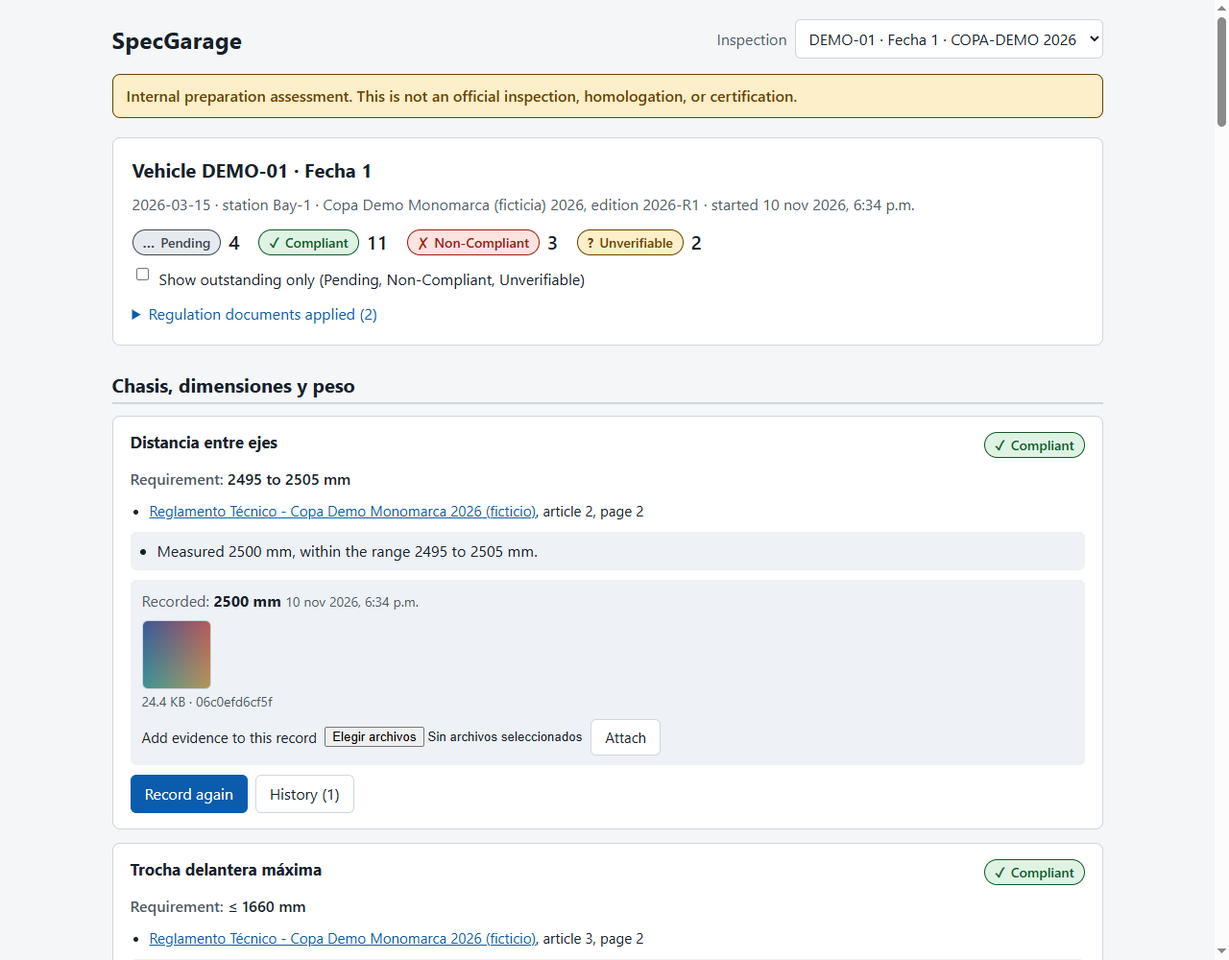
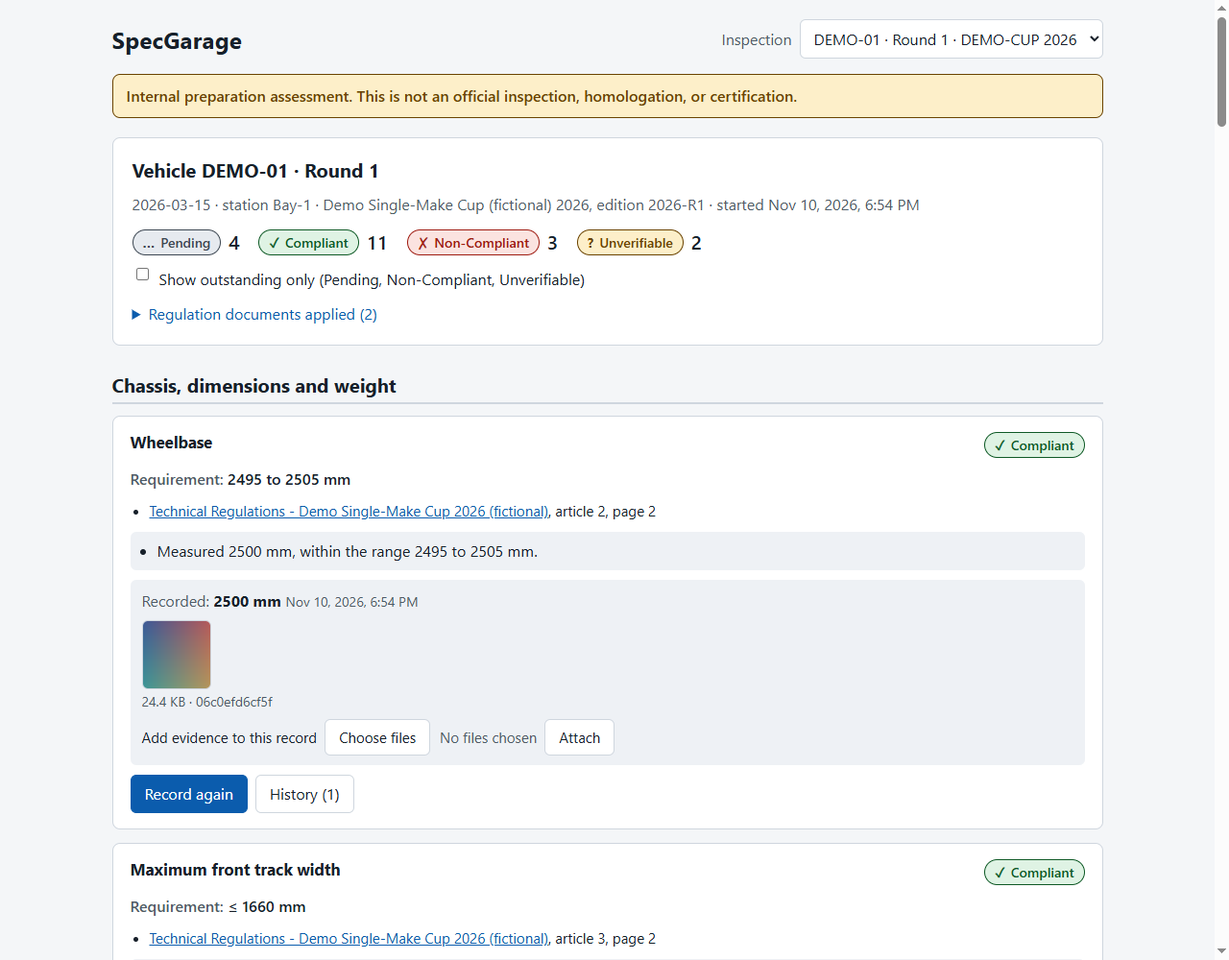
docs: make the documentation English-only and retake the screenshots
Removes the Spanish glossary column and terms, the Spanish-interface items
from the roadmap (locale-aware number entry stays planned), and the notes
about Spanish demo text. Screenshots are retaken from the English demo.

diff --git a/ROADMAP.md b/ROADMAP.md
@@ -4,7 +4,7 @@ Estimates are rough effort in hours. Status values: **Planned**, **In progress**
 
 ## Audience and priorities
 
-SpecGarage is aimed mainly at Argentine single-make (_monomarca_) categories. That drives three choices: Spanish becomes a first-class language soon after the MVP (Phase 8), numbers follow the Argentine convention of a decimal comma and dot thousands separator, and the data model follows how those regulations are organized (technical regulation, sporting regulation, official annexes, per-event particular regulation, lettered sub-articles).
+SpecGarage is aimed mainly at Argentine single-make categories, and the whole application, its documentation, and its demo data are in English. The audience drives two choices: numbers follow the Argentine convention of a decimal comma and dot thousands separator, which is handled soon after the MVP (Phase 8), and the data model follows how those regulations are organized (technical regulation, sporting regulation, official annexes, per-event particular regulation, lettered sub-articles).
 
 ## MVP — v0.1.0 (35 h)
 
@@ -27,11 +27,11 @@ MVP limits, stated up front: English interface only; numbers need a dot as the d
 
 ### v0.2 — complete first functional release (52 h)
 
-| Phase                              | Hours | Depends on | Scope                                                                                                                                                                                                                                           | Acceptance criteria                                                                                                                        |
-| ---------------------------------- | ----: | ---------- | ----------------------------------------------------------------------------------------------------------------------------------------------------------------------------------------------------------------------------------------------- | ------------------------------------------------------------------------------------------------------------------------------------------ |
-| 6. Checklist completeness          |    18 | MVP        | Authorized component lists with declared components; distinct obligation, prohibition, and procedural checks; applicability conditions over event and vehicle attributes; `verify` command; incompatible-rule report at import; `rulepack lint` | Closed-list and prohibition scenarios pass; unmet conditions give Not Applicable; `verify` detects a modified file                         |
-| 7. Inspections and summary screens |    14 | 6          | Start inspections and register vehicles in the UI; per-system summary with the outstanding list; search; notes and outstanding actions                                                                                                          | The whole first-release workflow runs without the CLI after import                                                                         |
-| 8. Spanish/English and printing    |    20 | 7          | Interface in Spanish and English; rulepack text per language with one marked authoritative; Argentine number entry that refuses ambiguous input such as `1.658` instead of guessing; printable blank checklists for working at the car          | Switching language changes no result; ambiguous numbers are refused with an explanation; blank checklists print on A4 without cut-off rows |
+| Phase                              | Hours | Depends on | Scope                                                                                                                                                                                                                                           | Acceptance criteria                                                                                                                                  |
+| ---------------------------------- | ----: | ---------- | ----------------------------------------------------------------------------------------------------------------------------------------------------------------------------------------------------------------------------------------------- | ---------------------------------------------------------------------------------------------------------------------------------------------------- |
+| 6. Checklist completeness          |    18 | MVP        | Authorized component lists with declared components; distinct obligation, prohibition, and procedural checks; applicability conditions over event and vehicle attributes; `verify` command; incompatible-rule report at import; `rulepack lint` | Closed-list and prohibition scenarios pass; unmet conditions give Not Applicable; `verify` detects a modified file                                   |
+| 7. Inspections and summary screens |    14 | 6          | Start inspections and register vehicles in the UI; per-system summary with the outstanding list; search; notes and outstanding actions                                                                                                          | The whole first-release workflow runs without the CLI after import                                                                                   |
+| 8. Number entry and printing       |    20 | 7          | Locale-aware number entry that accepts a decimal comma and refuses ambiguous input such as `1.658` instead of guessing; printable blank checklists for working at the car                                                                       | Both number conventions give identical results; ambiguous numbers are refused with an explanation; blank checklists print on A4 without cut-off rows |
 
 ### v0.4 — authoring and logic (60 h)
 
@@ -42,11 +42,11 @@ MVP limits, stated up front: English interface only; numbers need a dot as the d
 
 ### v0.6 — documents, change, history (68 h)
 
-| Phase                            | Hours | Depends on | Scope                                                                                                                                                                                                                    | Acceptance criteria                                                                                                                                                              |
-| -------------------------------- | ----: | ---------- | ------------------------------------------------------------------------------------------------------------------------------------------------------------------------------------------------------------------------ | -------------------------------------------------------------------------------------------------------------------------------------------------------------------------------- |
-| 11. Documents and reports        |    24 | 9          | Selectable-text extraction per page (Spanish text), in-app page view for illustrations, warnings when a cover year, heading year, and validity dates disagree, with human confirmation; CSV import; PDF and CSV dossiers | A document whose cover and heading name different seasons is flagged and cannot be used until confirmed; regenerating an export from the same inspection gives identical content |
-| 12. Regulation change impact     |    16 | 9, 10      | Compare two editions (added, removed, changed limits); list affected vehicles and open inspections; start a re-check that carries earlier results forward only as "verified under the previous edition, reconfirm"       | A changed limit lists every affected inspection; nothing is carried forward as Compliant without reconfirmation                                                                  |
-| 13. History and offline exchange |    28 | 10, 11     | Closing an inspection into an immutable dossier with a hash manifest; competition-number assignments over time; exchange files with manual reconciliation                                                                | Two offline inspections that disagree are both preserved and need manual reconciliation; closed inspections reject changes                                                       |
+| Phase                            | Hours | Depends on | Scope                                                                                                                                                                                                              | Acceptance criteria                                                                                                                                                              |
+| -------------------------------- | ----: | ---------- | ------------------------------------------------------------------------------------------------------------------------------------------------------------------------------------------------------------------ | -------------------------------------------------------------------------------------------------------------------------------------------------------------------------------- |
+| 11. Documents and reports        |    24 | 9          | Selectable-text extraction per page, in-app page view for illustrations, warnings when a cover year, heading year, and validity dates disagree, with human confirmation; CSV import; PDF and CSV dossiers          | A document whose cover and heading name different seasons is flagged and cannot be used until confirmed; regenerating an export from the same inspection gives identical content |
+| 12. Regulation change impact     |    16 | 9, 10      | Compare two editions (added, removed, changed limits); list affected vehicles and open inspections; start a re-check that carries earlier results forward only as "verified under the previous edition, reconfirm" | A changed limit lists every affected inspection; nothing is carried forward as Compliant without reconfirmation                                                                  |
+| 13. History and offline exchange |    28 | 10, 11     | Closing an inspection into an immutable dossier with a hash manifest; competition-number assignments over time; exchange files with manual reconciliation                                                          | Two offline inspections that disagree are both preserved and need manual reconciliation; closed inspections reject changes                                                       |
 
 ### v0.8 — field use and depth (44 h)
 
@@ -57,12 +57,12 @@ MVP limits, stated up front: English interface only; numbers need a dot as the d
 
 ### v1.0 — production readiness (78 h)
 
-| Phase                                     | Hours | Depends on | Scope                                                                                                                                                                                         | Acceptance criteria                                                 |
-| ----------------------------------------- | ----: | ---------- | --------------------------------------------------------------------------------------------------------------------------------------------------------------------------------------------- | ------------------------------------------------------------------- |
-| 16. Packaging and distribution            |    24 | 13         | Standalone form decided and recorded; per-OS builds; first-run data directory; safe upgrades; backup and restore                                                                              | A non-developer installs and runs it offline; an upgrade keeps data |
-| 17. Security, privacy, reliability        |    20 | 16         | Optional photo metadata stripping, upload hardening, integrity check, retention and purge tools, threat model                                                                                 | A test per documented mitigation; purge leaves no orphaned files    |
-| 18. Accessibility, usability, performance |    18 | 9          | Keyboard and contrast conformance for desktop, large-checklist performance budget                                                                                                             | Audit findings closed; budget met on a mid-range laptop             |
-| 19. Documentation and 1.0                 |    16 | all        | Two independently configured demo categories (one Spanish-language, one fictional English), user guide in both languages, example workflows, disclaimers, release procedure, deployment guide | A new user completes the guide without help                         |
+| Phase                                     | Hours | Depends on | Scope                                                                                                                           | Acceptance criteria                                                 |
+| ----------------------------------------- | ----: | ---------- | ------------------------------------------------------------------------------------------------------------------------------- | ------------------------------------------------------------------- |
+| 16. Packaging and distribution            |    24 | 13         | Standalone form decided and recorded; per-OS builds; first-run data directory; safe upgrades; backup and restore                | A non-developer installs and runs it offline; an upgrade keeps data |
+| 17. Security, privacy, reliability        |    20 | 16         | Optional photo metadata stripping, upload hardening, integrity check, retention and purge tools, threat model                   | A test per documented mitigation; purge leaves no orphaned files    |
+| 18. Accessibility, usability, performance |    18 | 9          | Keyboard and contrast conformance for desktop, large-checklist performance budget                                               | Audit findings closed; budget met on a mid-range laptop             |
+| 19. Documentation and 1.0                 |    16 | all        | Two independently configured demo categories, a user guide, example workflows, disclaimers, release procedure, deployment guide | A new user completes the guide without help                         |
 
 Cumulative: MVP 35 h → v0.2 87 h → v0.4 147 h → v0.6 215 h → v0.8 259 h → v1.0 337 h.
 

diff --git a/docs/domain.md b/docs/domain.md
@@ -4,37 +4,37 @@ SpecGarage turns a category's regulations into checks that a preparer can run ag
 
 ## Context: single-make regulations in Argentina
 
-The design follows how Argentine _categorías monomarca_ publish their rules:
+The design follows how Argentine single-make categories publish their rules:
 
-- A **technical regulation** (_reglamento técnico_) with numbered articles (engine, chassis, track widths, weight, tires, brakes, fuel, ballast, and so on), often with lettered sub-articles such as `7-B`, plus a block of lettered general provisions.
-- A **sporting regulation** (_reglamento deportivo_) that also contains vehicle-preparation duties: competition numbers, tire purchase limits, mandatory onboard devices and where they are installed, procedures before qualifying.
-- **Official annexes and communiqués** (_anexos oficiales_, _comunicados_) that amend either document during the season.
-- A **per-event particular regulation** (_reglamento particular de la prueba_, RPP) with event-specific conditions.
-- Pre-event technical verification (_verificación técnica previa_), sealing (_precintado_), and a closed-park regime (_parque cerrado_) run by technical officials.
+- A **technical regulation** with numbered articles (engine, chassis, track widths, weight, tires, brakes, fuel, ballast, and so on), often with lettered sub-articles such as `7-B`, plus a block of lettered general provisions.
+- A **sporting regulation** that also contains vehicle-preparation duties: competition numbers, tire purchase limits, mandatory onboard devices and where they are installed, procedures before qualifying.
+- **Official annexes and communiqués** that amend either document during the season.
+- A **per-event particular regulation** with event-specific conditions.
+- A pre-event technical verification, sealing of components, and a closed-park regime run by technical officials.
 
-Terms in the rules are often conditional on the event: a round number, a "special" round, a weekend with two finals, the first event of a participant, the last rounds of the season. Documents sometimes carry inconsistent metadata (for example a cover year that differs from a header year).
+Rules are often conditional on the event: a round number, a "special" round, a weekend with two finals, the first event of a participant, the last rounds of the season. Documents sometimes carry inconsistent metadata (for example a cover year that differs from a header year).
 
 ## Glossary
 
-| Term             | Spanish      | Meaning                                                                                                          |
-| ---------------- | ------------ | ---------------------------------------------------------------------------------------------------------------- |
-| Category         | Categoría    | An independent regulatory configuration                                                                          |
-| Season           | Temporada    | Period during which an edition applies                                                                           |
-| Rulepack         | —            | A JSON file describing a category-season: documents, systems, events, requirements                               |
-| Edition          | Edición      | One immutable, hashed import of a rulepack                                                                       |
-| Document         | Documento    | A regulation file (technical, sporting, appendix, bulletin, event) with title, edition, validity dates, and hash |
-| Source reference | Referencia   | Document + article + page that a requirement comes from                                                          |
-| Requirement      | Requisito    | A verifiable condition derived from the regulations                                                              |
-| System           | Sistema      | Grouping of requirements (chassis, brakes and tires, safety, and so on)                                          |
-| Check            | Verificación | How a requirement is evaluated: numeric limit or manual verdict (MVP)                                            |
-| Condition        | Condición    | A circumstance that must hold for a measurement to count (for example, weighed with the driver included)         |
-| Observation      | Observación  | One recorded measurement or verdict for a requirement in an inspection                                           |
-| Evidence         | Evidencia    | A photo or PDF attached to an observation                                                                        |
-| Result           | Resultado    | Status plus reasons for a requirement, derived from the observation and evidence                                 |
-| Inspection       | Inspección   | An evaluation of one vehicle at one event against one pinned edition                                             |
-| Vehicle          | Vehículo     | A physical car identified by an internal code                                                                    |
-| Event            | Evento       | A dated occasion (round) in the season                                                                           |
-| Observer station | —            | A non-personal label for where the inspection is done (for example `Bay-2`)                                      |
+| Term             | Meaning                                                                                                          |
+| ---------------- | ---------------------------------------------------------------------------------------------------------------- |
+| Category         | An independent regulatory configuration                                                                          |
+| Season           | Period during which an edition applies                                                                           |
+| Rulepack         | A JSON file describing a category-season: documents, systems, events, requirements                               |
+| Edition          | One immutable, hashed import of a rulepack                                                                       |
+| Document         | A regulation file (technical, sporting, appendix, bulletin, event) with title, edition, validity dates, and hash |
+| Source reference | Document + article + page that a requirement comes from                                                          |
+| Requirement      | A verifiable condition derived from the regulations                                                              |
+| System           | Grouping of requirements (chassis, brakes and tires, safety, and so on)                                          |
+| Check            | How a requirement is evaluated: numeric limit or manual verdict (MVP)                                            |
+| Condition        | A circumstance that must hold for a measurement to count (for example, weighed with the driver included)         |
+| Observation      | One recorded measurement or verdict for a requirement in an inspection                                           |
+| Evidence         | A photo or PDF attached to an observation                                                                        |
+| Result           | Status plus reasons for a requirement, derived from the observation and evidence                                 |
+| Inspection       | An evaluation of one vehicle at one event against one pinned edition                                             |
+| Vehicle          | A physical car identified by an internal code                                                                    |
+| Event            | A dated occasion (round) in the season                                                                           |
+| Observer station | A non-personal label for where the inspection is done (for example `Bay-2`)                                      |
 
 ## Statuses
 

diff --git a/README.md b/README.md
@@ -1,6 +1,6 @@
 # SpecGarage
 
-SpecGarage is an offline tool for vehicle preparers and technical leads in single-make (_monomarca_) racing categories, designed first around Argentine categories and the way their regulations are organized: a technical regulation, a sporting regulation, official annexes, and a per-event particular regulation. It turns a category's regulations into a preparation checklist for one vehicle at one event, records measurements and evidence against each requirement, and keeps every result traceable to the regulation article and edition it was judged against. It supports a team's own preparation work; it does not replace official technical inspection, homologation, or certification.
+SpecGarage is an offline tool for vehicle preparers and technical leads in single-make racing categories, designed first around Argentine categories and the way their regulations are organized: a technical regulation, a sporting regulation, official annexes, and a per-event particular regulation. It turns a category's regulations into a preparation checklist for one vehicle at one event, records measurements and evidence against each requirement, and keeps every result traceable to the regulation article and edition it was judged against. It supports a team's own preparation work; it does not replace official technical inspection, homologation, or certification.
 
 > **Status: first functional release (v0.1.0).** It covers one complete workflow: import a category's rules, start an inspection, record measurements and verdicts with evidence, and see what is compliant, non-compliant, unverifiable, or still pending. See [Known limitations](#known-limitations) and [ROADMAP.md](ROADMAP.md) for what is not built yet.
 
@@ -16,7 +16,7 @@ SpecGarage is an offline tool for vehicle preparers and technical leads in singl
 - Append-only history of every observation, evidence file, and evaluation.
 - Command-line interface for rulepacks, vehicles, and inspections; a local web interface for the checklist.
 
-**Planned** (see [ROADMAP.md](ROADMAP.md)): Spanish/English interface with Argentine number entry, authorized component lists, a requirements editor, exceptions and conflict detection, PDF text import, PDF/CSV dossiers, offline exchange and reconciliation, instrument records, and a packaged installer. Permanently out of scope: official certification, OCR, AI interpretation of regulations, image recognition, telemetry, and identification of drivers or inspectors.
+**Planned** (see [ROADMAP.md](ROADMAP.md)): Argentine-style number entry (decimal comma), authorized component lists, a requirements editor, exceptions and conflict detection, PDF text import, PDF/CSV dossiers, offline exchange and reconciliation, instrument records, and a packaged installer. Permanently out of scope: official certification, OCR, AI interpretation of regulations, image recognition, telemetry, and identification of drivers or inspectors.
 
 ## Screenshots
 
@@ -147,7 +147,7 @@ SpecGarage runs entirely on the user's computer and makes no network requests. T
 
 ## Known limitations
 
-- The interface is English only, and numbers must use a dot as the decimal separator (a decimal comma is refused with an explanation, never guessed). Spanish and Argentine number entry are planned next.
+- The interface is English only, and numbers must use a dot as the decimal separator (a decimal comma is refused with an explanation, never guessed). Argentine-style number entry (decimal comma) is planned next.
 - Measurement units must match the rule's unit exactly; there is no conversion.
 - Only numeric limits and manual verdicts are evaluated. Authorized component lists, applicability conditions, exceptions, cumulative limits (such as tire counts or ballast), and conflict detection are not built.
 - Rulepacks are edited as JSON files; there is no editor, and no PDF text import or PDF/CSV export.

diff --git a/AGENTS.md b/AGENTS.md
@@ -4,7 +4,7 @@ Instructions for contributors and coding agents working on SpecGarage.
 
 ## Purpose
 
-SpecGarage helps vehicle preparers in single-make (_monomarca_) racing categories, primarily Argentine ones, turn regulations into per-vehicle, per-event checklists with evidence and traceability. Results are internal assessments, never official certification. Read [docs/domain.md](docs/domain.md) before changing behavior.
+SpecGarage helps vehicle preparers in single-make racing categories, primarily Argentine ones, turn regulations into per-vehicle, per-event checklists with evidence and traceability. Results are internal assessments, never official certification. Read [docs/domain.md](docs/domain.md) before changing behavior.
 
 ## Status
 
@@ -50,7 +50,7 @@ The layout is described in [docs/architecture.md](docs/architecture.md). The rul
 
 ## Data and privacy
 
-- Use synthetic data only. Never commit real regulation documents, text copied from them, real series names or marks, or the names of real people or organizations. Demo categories are fictional and written for this project. Regulation text in a demo may be in Spanish; that is data, not application language.
+- Use synthetic data only. Never commit real regulation documents, text copied from them, real series names or marks, or the names of real people or organizations. Demo categories are fictional and written for this project.
 - Never commit `.env`, databases, or evidence files. `data/` is ignored; keep it that way.
 - Do not add network calls, telemetry, or third-party assets. The product must work offline.
 
@@ -60,7 +60,7 @@ The layout is described in [docs/architecture.md](docs/architecture.md). The rul
 - TypeScript only uses erasable syntax (no enums, parameter properties, or runtime namespaces) because Node runs the files directly. Imports of local files include the `.ts` extension. Use `import type` for types.
 - Prefer small pure functions and explicit return types at module boundaries. Do not add abstractions before a second use exists.
 - Test observable behavior and invariants with deterministic, isolated tests. Inject the clock and use temporary directories; tests must never touch a real data directory.
-- Treat text as Unicode (Spanish accents and `ñ` are normal data). Never normalize or strip characters in stored regulation text.
+- Treat text as Unicode: accented letters are normal data. Never normalize or strip characters in stored regulation text.
 
 ## Dependencies
 

diff --git a/docs/adr/0007-react-vite-interface-with-contract-test.md b/docs/adr/0007-react-vite-interface-with-contract-test.md
@@ -4,14 +4,14 @@
 
 ## Context
 
-The first release needs one interactive screen: forms, file uploads, live status, and an accessible keyboard workflow. Options were server-rendered HTML with a little script, or a client-side application. The screen will gain an editor, summaries, and language switching, which favors a component model. The bundle must not import server code, because the server uses Node-only modules and the browser has a strict Content Security Policy.
+The first release needs one interactive screen: forms, file uploads, live status, and an accessible keyboard workflow. Options were server-rendered HTML with a little script, or a client-side application. The screen will gain an editor and summaries, which favors a component model. The bundle must not import server code, because the server uses Node-only modules and the browser has a strict Content Security Policy.
 
 ## Decision
 
 - A React single-page app built with Vite, served as static files by the same process. No router, state library, or CSS framework: one screen, plain CSS, and a hash (`#/inspection/<id>`) for the selected inspection.
 - The bundle keeps its own copy of the API's response types in `web/src/api-types.ts`.
 - `tests/web-contract.test.ts` asserts at compile time that the server's types are assignable to that copy, so `pnpm typecheck` fails if they drift apart.
-- Regulation text is shown in the language it was written in and marked with a `lang` attribute; interface text is English until the language work in the roadmap.
+- All interface text is English. Regulation text is shown as written in the rulepack and marked with a `lang` attribute from the rulepack's language tag.
 
 ## Consequences
 

diff --git a/docs/rulepack-format.md b/docs/rulepack-format.md
@@ -12,7 +12,7 @@ Unknown keys are rejected everywhere, so a typo cannot silently drop a field.
   "category": { "code": "CAT-A", "name": "Category A (fictional)" },
   "season": "2026",
   "edition": "2026-R1",
-  "language": "es-AR",
+  "language": "en",
   "documents": [
     {
       "key": "TR",
@@ -48,7 +48,7 @@ Unknown keys are rejected everywhere, so a typo cannot silently drop a field.
 | `category`     | yes      | `code` (a key) and `name` (up to 120 characters)                                                            |
 | `season`       | yes      | A key, for example `2026`                                                                                   |
 | `edition`      | yes      | A key naming this edition, for example `2026-R1`. Reusing a label with changed content is refused at import |
-| `language`     | no       | BCP 47 tag of the regulation text, such as `es-AR`                                                          |
+| `language`     | no       | BCP 47 tag of the regulation text, such as `en` or `en-US`                                                  |
 | `documents`    | yes      | 1–50 documents                                                                                              |
 | `systems`      | yes      | 1–50 vehicle systems; array order is display order                                                          |
 | `events`       | yes      | 1–100 events                                                                                                |

diff --git a/docs/api.md b/docs/api.md
@@ -38,7 +38,7 @@ Every response that carries a result includes the notice that results are intern
 Recording again supersedes the previous observation for that requirement; the earlier records stay in the history. Conditions and evidence belong to one observation and are never carried over.
 
 ```bash
-curl -X POST "http://127.0.0.1:8787/api/inspections/<id>/requirements/frenos-pastilla-espesor-min/observations" \
+curl -X POST "http://127.0.0.1:8787/api/inspections/<id>/requirements/brakes-pad-thickness-min/observations" \
   -F value=3.2 -F unit=mm -F "files=@photo.png"
 ```
 
@@ -46,7 +46,7 @@ curl -X POST "http://127.0.0.1:8787/api/inspections/<id>/requirements/frenos-pas
 {
   "notice": "Internal preparation assessment. This is not an official inspection, homologation, or certification.",
   "requirement": {
-    "key": "frenos-pastilla-espesor-min",
+    "key": "brakes-pad-thickness-min",
     "status": "non-compliant",
     "checkSummary": "≥ 3.5 mm",
     "reasons": [
@@ -55,7 +55,7 @@ curl -X POST "http://127.0.0.1:8787/api/inspections/<id>/requirements/frenos-pas
     "sources": [
       {
         "documentKey": "TR",
-        "documentTitle": "Reglamento Técnico - Copa Demo Monomarca 2026 (ficticio)",
+        "documentTitle": "Technical Regulations - Demo Single-Make Cup 2026 (fictional)",
         "article": "11",
         "page": 5,
         "fileSha256": "950f3a5b6095…"

diff --git a/docs/development.md b/docs/development.md
@@ -34,7 +34,7 @@ pnpm install --frozen-lockfile
 pnpm specgarage seed demo           # import the fictional demo category, add a vehicle, start an inspection
 pnpm specgarage rulepack list
 pnpm specgarage inspection list
-pnpm specgarage rulepack validate examples/demo-monomarca/rulepack.json
+pnpm specgarage rulepack validate examples/demo-cup/rulepack.json
 ```
 
 Other commands: `db migrate`, `rulepack import <file>`, `vehicle add <code>`, `vehicle list`, `inspection start --edition … --vehicle … --event … --station …`. Run `pnpm specgarage --help` for the full list. Exit status is 0 on success, 1 for an expected failure (invalid input, not found, conflict), and 2 for a usage error.

diff --git a/docs/architecture.md b/docs/architecture.md
@@ -81,7 +81,7 @@ Triggers reject updates and deletes on all of them, and tie evidence and results
 
 ## Not built yet
 
-Authorized component lists, applicability conditions, exceptions, conflict detection, PDF text extraction, exports, closed dossiers, offline exchange, instruments, Spanish interface, and packaging are planned in [ROADMAP.md](../ROADMAP.md).
+Authorized component lists, applicability conditions, exceptions, conflict detection, PDF text extraction, exports, closed dossiers, offline exchange, instruments, locale-aware number entry, and packaging are planned in [ROADMAP.md](../ROADMAP.md).
 
 ## Decisions
 
